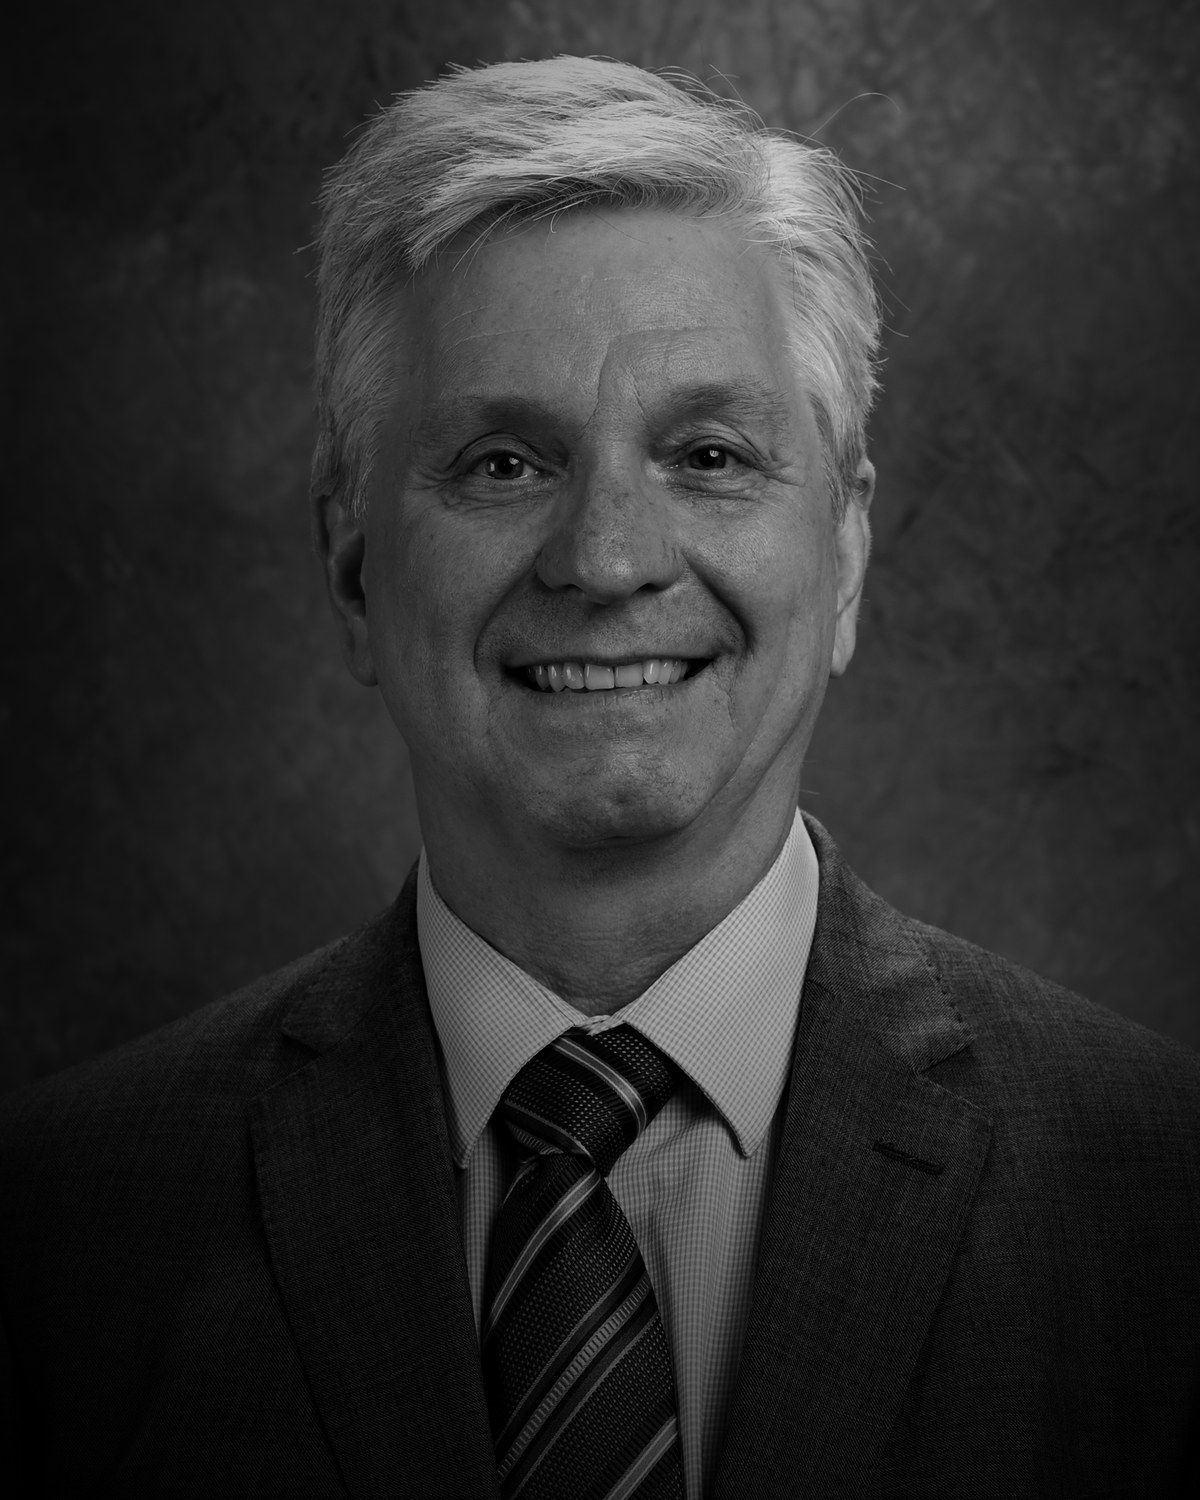
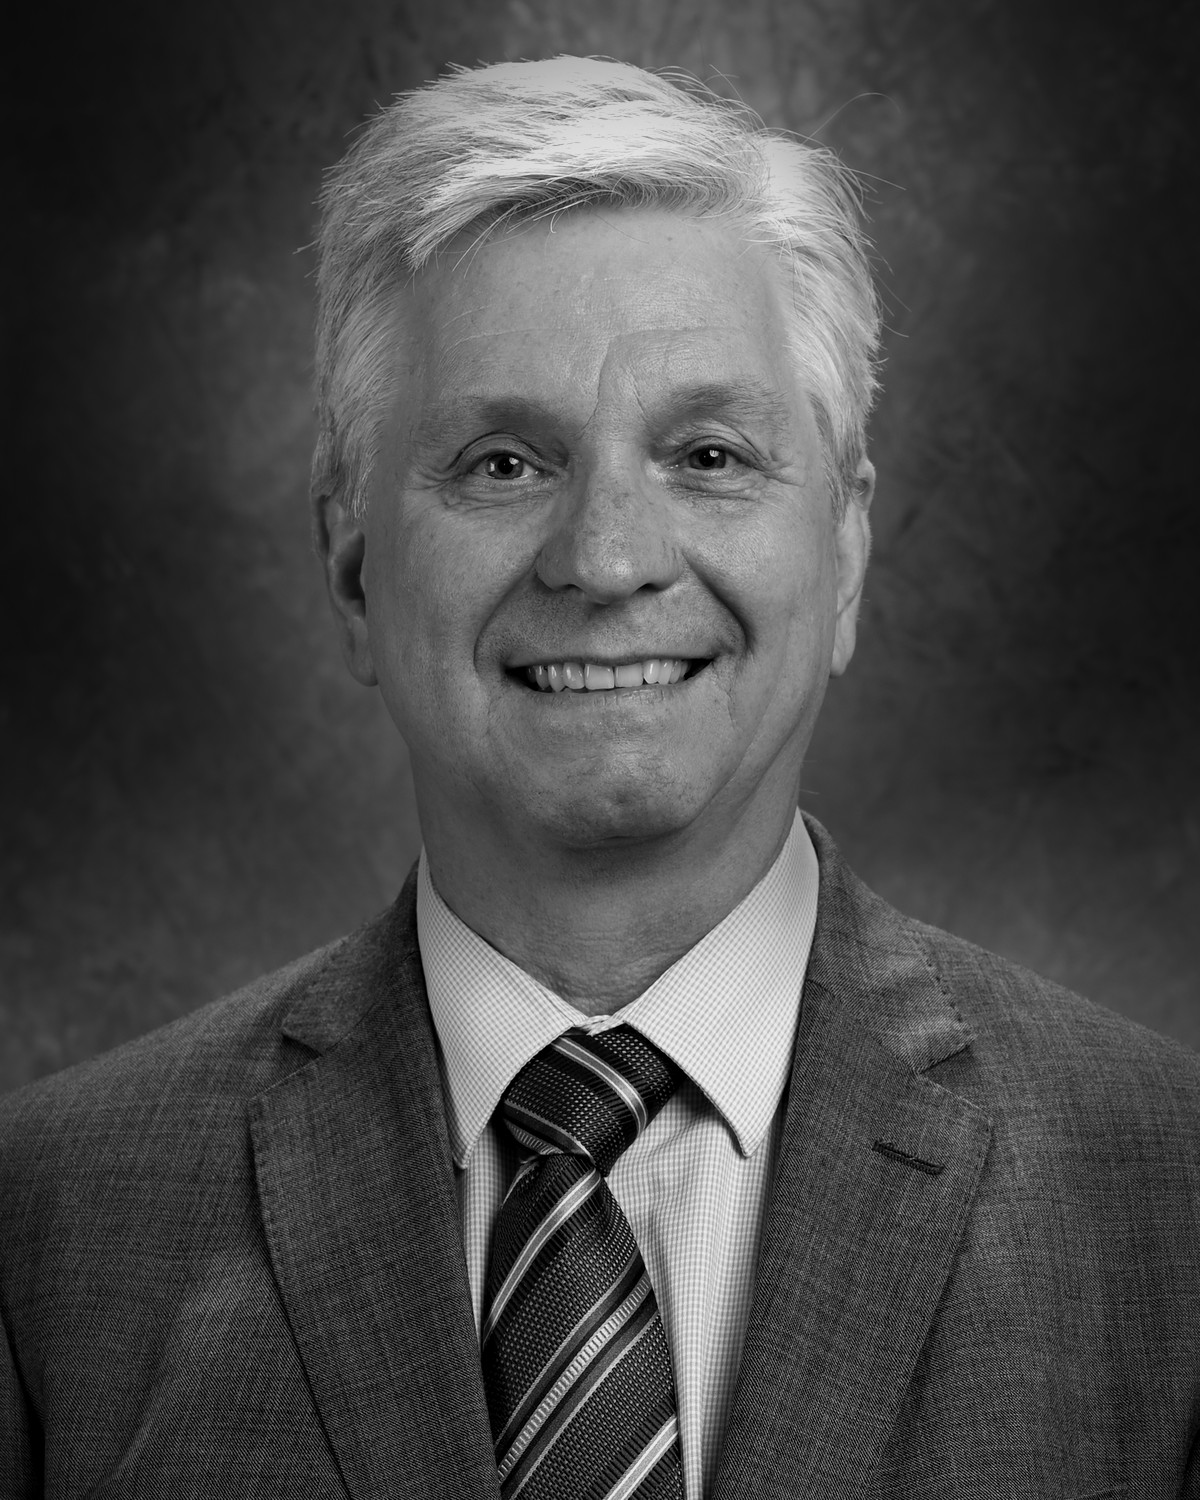
threads-cards：PPI 前瞻圖提高人物曝光與層次，資訊卡加陰影與亮邊
Claude-Session: https://claude.ai/code/session_01L5kApqajgmGY7kMYX9igNT

diff --git a/threads-cards/posts/us-ppi-oct-preview-1112.js b/threads-cards/posts/us-ppi-oct-preview-1112.js
@@ -13,11 +13,14 @@ POST({
   footer:['',''],
   draw:T=>{
     let g=`<defs>
-      <linearGradient id="fadeL" x1="0" x2="1"><stop offset="0" stop-color="${T.bg}"/><stop offset="0.32" stop-color="${T.bg}" stop-opacity="0"/></linearGradient>
-      <linearGradient id="fadeB" y1="0" y2="1" x1="0" x2="0"><stop offset="0.6" stop-color="${T.bg}" stop-opacity="0"/><stop offset="1" stop-color="${T.bg}"/></linearGradient>
-      <linearGradient id="fadeR" x1="0" x2="1"><stop offset="0.72" stop-color="${T.bg}" stop-opacity="0"/><stop offset="1" stop-color="${T.bg}"/></linearGradient>
-      <radialGradient id="vig" cx="0.6" cy="0.4" r="0.8"><stop offset="0.5" stop-color="#000" stop-opacity="0"/><stop offset="1" stop-color="#000" stop-opacity="0.55"/></radialGradient>
+      <linearGradient id="fadeL" x1="0" x2="1"><stop offset="0" stop-color="${T.bg}"/><stop offset="0.3" stop-color="${T.bg}" stop-opacity="0"/></linearGradient>
+      <linearGradient id="fadeB" y1="0" y2="1" x1="0" x2="0"><stop offset="0.72" stop-color="${T.bg}" stop-opacity="0"/><stop offset="1" stop-color="${T.bg}"/></linearGradient>
+      <linearGradient id="fadeR" x1="0" x2="1"><stop offset="0.8" stop-color="${T.bg}" stop-opacity="0"/><stop offset="1" stop-color="${T.bg}" stop-opacity="0.85"/></linearGradient>
+      <radialGradient id="halo" cx="0.5" cy="0.4" r="0.5"><stop offset="0" stop-color="#3a3d43" stop-opacity="0.85"/><stop offset="0.6" stop-color="#25272b" stop-opacity="0.5"/><stop offset="1" stop-color="#101114" stop-opacity="0"/></radialGradient>
+      <radialGradient id="lift" cx="0.25" cy="0.55" r="0.6"><stop offset="0" stop-color="#1c1e22"/><stop offset="1" stop-color="#101114" stop-opacity="0"/></radialGradient>
+      <filter id="sh" x="-10%" y="-10%" width="120%" height="130%"><feDropShadow dx="0" dy="10" stdDeviation="14" flood-color="#000" flood-opacity="0.55"/></filter>
     </defs>`;
+    g+=`<rect width="1600" height="900" fill="url(#lift)"/><ellipse cx="1010" cy="360" rx="470" ry="440" fill="url(#halo)"/>`;
     // 背景：左下 K 線、右上星點（裝飾）
     let k='';{let s=17,v=0;const r=()=>(s=(s*16807)%2147483647)/2147483647;
       for(let i=0;i<34;i++){const x=20+i*18;v+=(r()-.42)*14;const o=870-v-i*1.2,c=o-(r()-.45)*26,hi=Math.min(o,c)-r()*14,lo=Math.max(o,c)+r()*14;
@@ -26,10 +29,9 @@ POST({
     const star=(cx,cy,R)=>{let p=[];for(let i=0;i<10;i++){const a=-Math.PI/2+i*Math.PI/5,rr=i%2?R*0.42:R;p.push(`${(cx+rr*Math.cos(a)).toFixed(1)},${(cy+rr*Math.sin(a)).toFixed(1)}`)}return `<polygon points="${p.join(' ')}" fill="#fff"/>`;};
     let st='';[[1180,40],[1250,92],[1330,34],[1410,80],[1490,36],[1560,90],[1300,150]].forEach(([x,y])=>st+=star(x,y,16));
     // 人物
-    g+=`<image href="${face}" x="700" y="0" width="620" height="900" preserveAspectRatio="xMidYMin slice" opacity="0.92"/>`;
+    g+=`<image href="${face}" x="700" y="0" width="620" height="900" preserveAspectRatio="xMidYMin slice" opacity="1"/>`;
     ['fadeL','fadeB','fadeR'].forEach(id=>g+=`<rect x="700" y="0" width="620" height="900" fill="url(#${id})"/>`);
     g+=`<g opacity="0.08">${st}</g>`;
-    g+=`<rect width="1600" height="900" fill="url(#vig)"/>`;
     // 標籤與標題
     const L=66;
     g+=`<rect x="${L}" y="60" width="7" height="26" rx="3" fill="${T.fg}"/>`;
@@ -42,7 +44,7 @@ POST({
       g+=`<line x1="${X0}" x2="${X1}" y1="${yv(t)}" y2="${yv(t)}" stroke="${T.text}" stroke-opacity="${t===0?0.45:0.16}" stroke-width="${t===0?2:1.2}"/>`;
       g+=`<text x="${X0-20}" y="${yv(t)+9}" text-anchor="end" style="font-family:Inter;font-size:26px;fill:${T.dim}">${t===0?'0':t.toFixed(1)}%</text>`;
     });
-    const bar=(x,w,y,fill)=>{const r=14;return `<path d="M${x} ${B}V${y+r}Q${x} ${y} ${x+r} ${y}H${x+w-r}Q${x+w} ${y} ${x+w} ${y+r}V${B}Z" fill="${fill}"/>`;};
+    const bar=(x,w,y,fill)=>{const r=14;return `<path filter="url(#sh)" d="M${x} ${B}V${y+r}Q${x} ${y} ${x+r} ${y}H${x+w-r}Q${x+w} ${y} ${x+w} ${y+r}V${B}Z" fill="${fill}"/>`;};
     [[1.3,'+1.3%','9 月實際',249,208,T.fg,T.fg],[0.4,'+0.4%','10 月預估',572,222,'#8d8f94',T.text]].forEach(([v,lab,a,x,w,fill,col])=>{
       const y=yv(v);
       g+=bar(x,w,y,fill);
@@ -51,7 +53,7 @@ POST({
     });
     // 右側卡片
     const RX=1134, RW=438, RH=197;
-    const card=y=>`<rect x="${RX}" y="${y}" width="${RW}" height="${RH}" rx="22" fill="#1d1e21" fill-opacity="0.82" stroke="#ffffff" stroke-opacity="0.13" stroke-width="1.5"/>`;
+    const card=y=>`<rect x="${RX}" y="${y}" width="${RW}" height="${RH}" rx="22" fill="#2a2c31" fill-opacity="0.86" stroke="#ffffff" stroke-opacity="0.2" stroke-width="1.5" filter="url(#sh)"/><rect x="${RX+1}" y="${y+1}" width="${RW-2}" height="60" rx="21" fill="#ffffff" fill-opacity="0.025"/>`;
     let y=134;
     g+=card(y)+`<text x="${RX+32}" y="${y+52}" class="lb">公布時間</text>`;
     g+=`<text x="${RX+28}" y="${y+124}" style="font-family:Inter;font-size:62px;font-weight:700;fill:${T.fg}">11/13<tspan dx="16">21:30</tspan></text>`;
@@ -64,7 +66,7 @@ POST({
     g+=card(y)+`<text x="${RX+32}" y="${y+52}" class="lb">核心 PPI 預估</text>`;
     g+=`<text x="${RX+30}" y="${y+128}" style="font-size:60px;font-weight:900;fill:${T.text}">月增 <tspan style="font-family:Inter;font-size:66px;font-weight:700">0.3%</tspan></text>`;
     g+=`<text x="${RX+32}" y="${y+174}" class="sb">扣除食品與能源</text>`;
-    g+=`<style>.lb{fill:${T.dim};font-size:29px;font-weight:500}.sb{fill:${T.text};font-size:31px;font-weight:500}</style>`;
+    g+=`<style>.lb{fill:#c3c7ce;font-size:29px;font-weight:500}.sb{fill:${T.text};font-size:31px;font-weight:500}</style>`;
     return g;
   },
 });
